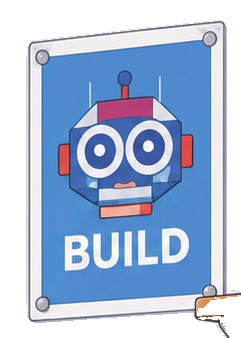
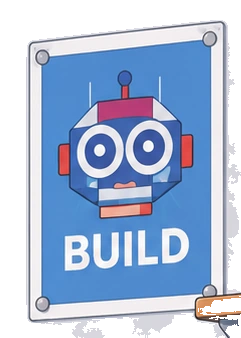
消掉會動元件的殘影:差異門檻 34 → 15
你說得對,每一個會動的元件在最大擺幅都會露出一圈淡淡的自己 —— 板手和檯燈底座最明顯。

根因是遮罩的差異門檻(DIFF_T)訂在 34:物件的柔邊與軟陰影和空房間的色差低於 34,
就沒被收進遮罩,底板那裡留的是原圖 —— 也就是那個物件的殘影。元件一擺動,殘影不動,
淡淡的輪廓就自己現形。

掃過 34 / 26 / 20 / 15 / 11:

  元件           T=34    T=26    T=20    T=15    T=11
  wrench_left    6270   10969   14857   16523   16688
  lamp          23305   23446   23787   29123   36872
  poster        57604   57879   58280   60211   74831
  left_plant    23664   24324   25206   27743   37306

到 15 都還是平滑成長,11 開始暴衝(檯燈 +27%、海報 +24%、盆栽 +34%)—— 那是淹進
牆面的重畫雜訊,不是物件。15 是「收乾淨」和「不亂吃」之間的最後一格。

代價:元件總大小 61KB → 67KB。RMSE 2.83 → 2.82。

順帶把「底板上那些拿不掉的東西」寫進文件:空房間是美術「22 個元件全部拿掉」的重畫版,
但底板只在 12 個會動元件的遮罩內用它,其餘 88% 是原圖 —— 所以抽屜櫃、地上的機台、
啞鈴、控制台那些還在,它們不會動,挖了只是自找麻煩。整張換成空房間的話它們得從套件的
切片貼回去,而那些切片系統性偏小,結果是每個東西都位移幾 px 加上雙重輪廓。

驗收:7 個頁面/視窗組合 overflowX = 0、零錯誤、零失敗請求;雲的飄動與四個時段照舊。

diff --git a/tools/gen-allen-room-assets.py b/tools/gen-allen-room-assets.py
@@ -92,7 +92,11 @@ OUT = os.path.join(ROOT, 'assets/allen/room')
 JS_OUT = os.path.join(ROOT, 'allen-room-parts.js')
 CANVAS = 1254
 PAD_MAX = 18      # 遮罩可以長到 bbox 外面(投影),貼圖框往外放這麼多
-DIFF_T = 34       # 原圖與空房間的色差門檻(三通道相加)
+DIFF_T = 15       # 原圖與空房間的色差門檻(三通道相加)
+# 34 太高:物件的柔邊與軟陰影低於門檻,就留在底板上不動 —— 元件一擺動,那一圈
+# 淡淡的輪廓就自己現形(每一個會動的元件在最大擺幅都看得到)。掃過 34/26/20/15/11:
+# 遮罩到 15 都還是平滑成長,11 開始暴衝(檯燈 +27%、海報 +24%、盆栽 +34%),
+# 那是淹進牆面的重畫雜訊。15 是「收乾淨」和「不亂吃」之間的最後一格。
 
 # 會動的元件。改這裡要同步改 allen-room.js 的 MOTION。
 MOVERS = [

diff --git a/README.md b/README.md
@@ -81,7 +81,9 @@
   (每個元件的貼圖框,產生檔不要手改),並自己驗「底板+元件貼回去 vs 原圖」的 RMSE,
   超過 3.0 就中止。底板來自美術重畫的空房間 `robot_workshop_background_filled.svg`;
   元件遮罩是用「原圖 vs 空房間」的差異算的,連描邊與投影一起帶走 —— 不這樣做的話,
-  那圈深色會留在底板上不動,物件一擺動就變成雙重輪廓。
+  那圈深色會留在底板上不動,物件一擺動就變成雙重輪廓。差異門檻壓在 15(原本 34):
+  34 會把物件的柔邊與軟陰影留在底板上,擺動時那一圈淡淡的輪廓會自己現形;
+  再低到 11 就開始淹進牆面的重畫雜訊。
 
   **不要再用自己畫的圖形去代替房間裡的東西** —— 第一版畫了假的準星、假的葉子、假的眼皮
   疊在畫死的同一個物件上,筆觸與色階對不上,而且變成兩份。
